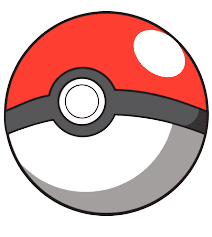
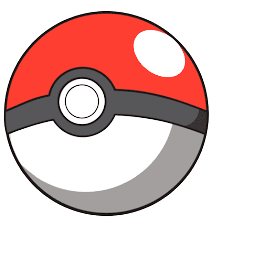
creando objetos literales

diff --git a/index.js b/index.js
@@ -48,6 +48,22 @@ function sumarPokemon(){
     document.querySelector('span').innerText =  contador+1;
 }
 
+
+function moverPokemon(){
+    let pokemon = document.querySelectorAll("button");
+    pokemon.forEach(element => {
+        element.style.position = 'absolute';
+        element.style.top = '100px';
+        element.style.left = '200px';
+
+        } 
+          )
+};
+
 abrirPokebola();
+moverPokemon()
 
-
+Pokemon.setDatos("pikachu",3);
+Pokemon.saludar();
+Pokemon.getEdad();
+Pokemon.getNombre();

diff --git a/index.html b/index.html
@@ -6,7 +6,8 @@
     <meta http-equiv="X-UA-Compatible" content="ie=edge">
     <link rel="stylesheet" href="css/style.css">
     <link rel="shortcut icon" href="img/pokeball.png" type="image/x-icon">
-   <script src="index.js" defer></script>
+    <script src="Pokemon.js" defer></script>
+    <script src="index.js" defer></script>
     <title>Juego atrapa Pokemon</title>
 </head>
 <body>

diff --git a/Pokemon.js b/Pokemon.js
@@ -1,0 +1,18 @@
+const Pokemon = {
+  setDatos:  function(nombre,edad){
+this.nombre = nombre;
+this.edad = edad;
+    },
+    nombre:"",
+    edad: null,
+saludar: function(){
+   alert("hola");
+},
+getNombre: function(){
+    alert(this.nombre);
+},
+getEdad: function(){
+    alert(this.edad);
+}
+};
+
